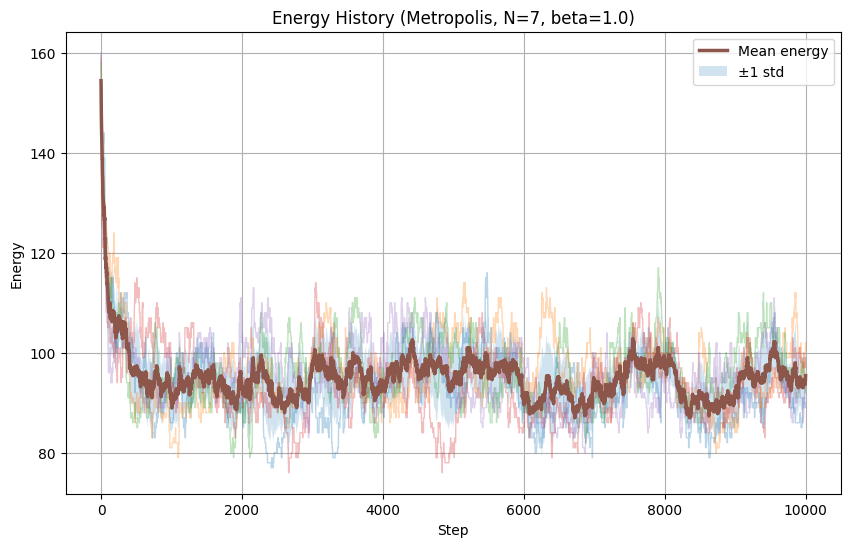
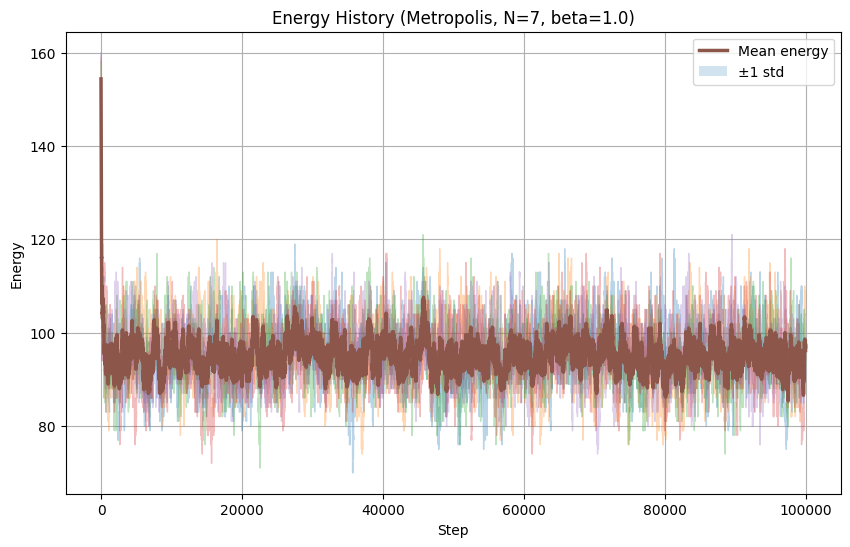
Image comparison

diff --git a/mcmc_new.py b/mcmc_new.py
@@ -323,7 +323,7 @@ def plot_energy_histories(all_histories, title, out_path=None):
 
 if __name__ == "__main__":
     N = 7
-    n_steps = 10000
+    n_steps = 100000
     n_runs = 5
 
     # Example 1: plain Metropolis (constant beta)
